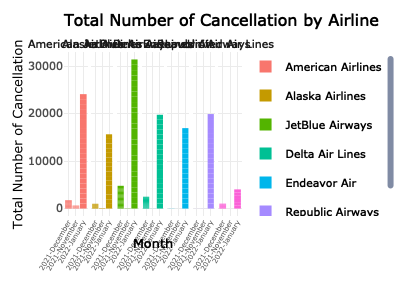
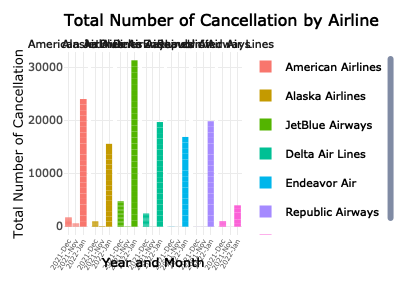
nesting by airline

diff --git a/poisson_model.md b/poisson_model.md
@@ -37,17 +37,6 @@ library(tidyverse)
 ``` r
 library(ggridges)
 library(patchwork)
-library(zoo)
-```
-
-    ## 
-    ## Attaching package: 'zoo'
-    ## 
-    ## The following objects are masked from 'package:base':
-    ## 
-    ##     as.Date, as.Date.numeric
-
-``` r
 library(plotly)
 ```
 
@@ -167,8 +156,12 @@ cancel_tidy <- cancel_tidy%>%
     case_count = as.numeric(case_count),
     airline_name = as_factor(airline_name),
     month = ifelse(month == 11, "November", 
-                        ifelse(month == 12, "December", "January"))) %>% 
-    filter(!is.na(cancel_count))  
+                        ifelse(month == 12, "December", "January")),
+    month2 = ifelse(month == "November", "Nov", 
+                        ifelse(month == "December", "Dec", "Jan")),
+    year_month = paste(year, month2, sep="-")) %>% 
+    filter(!is.na(cancel_count))  %>% 
+    select(-month2)
 ```
 
 # Poisson model
@@ -236,11 +229,11 @@ cancel_tidy %>%
 
 ``` r
 cancel_airline <- cancel_tidy  %>%
-  group_by(year, month, airline_name) %>%
+  group_by(year_month, airline_name) %>%
   mutate(Total_number_of_cancellation = sum(cancel_count)) 
 
 cancel_airline %>%
-  select(year, month, airline_name, Total_number_of_cancellation) %>%
+  select(year_month, airline_name, Total_number_of_cancellation) %>%
   distinct %>% 
   pivot_wider(
   names_from = airline_name, 
@@ -248,20 +241,19 @@ cancel_airline %>%
   head() %>% knitr::kable(digits = 2)
 ```
 
-| year | month    | American Airlines | Alaska Airlines | JetBlue Airways | Delta Air Lines | Endeavor Air | Republic Airways | United Air Lines |
-|-----:|:---------|------------------:|----------------:|----------------:|----------------:|-------------:|-----------------:|-----------------:|
-| 2021 | November |                42 |              23 |              11 |               8 |            3 |                8 |                1 |
-| 2021 | December |               174 |             143 |             252 |             226 |           10 |                5 |              171 |
-| 2022 | January  |              1047 |             977 |            1121 |            1039 |         1058 |             1047 |              672 |
+| year_month | American Airlines | Alaska Airlines | JetBlue Airways | Delta Air Lines | Endeavor Air | Republic Airways | United Air Lines |
+|:-----------|------------------:|----------------:|----------------:|----------------:|-------------:|-----------------:|-----------------:|
+| 2021-Nov   |                42 |              23 |              11 |               8 |            3 |                8 |                1 |
+| 2021-Dec   |               174 |             143 |             252 |             226 |           10 |                5 |              171 |
+| 2022-Jan   |              1047 |             977 |            1121 |            1039 |         1058 |             1047 |              672 |
 
 ``` r
 plot_cancel_airline <- cancel_airline %>%
-  mutate(year_month = paste(year, month, sep="-")) %>%
   ggplot(aes(x = year_month, y = Total_number_of_cancellation, fill = airline_name)) +
   geom_bar(stat = "identity", show.legend = FALSE) +
   labs(
     title = "Total Number of Cancellation by Airline",
-    x = "Month",
+    x = "Year and Month",
     y = "Total Number of Cancellation"
   ) +
   theme(legend.position="right", legend.title = element_blank(),
@@ -269,7 +261,60 @@ plot_cancel_airline <- cancel_airline %>%
         axis.text.x = element_text(angle = 60, hjust = 1, size = 5)) +
   facet_grid(. ~ airline_name)
 
+  
 ggplotly(plot_cancel_airline)
 ```
 
 <img src="poisson_model_files/figure-gfm/unnamed-chunk-9-1.png" width="90%" />
+
+## Nesting airline
+
+``` r
+poisson_by_airline = cancel_tidy %>%
+  nest(data = -airline_name) %>% 
+  mutate(
+    models = map(data, ~glm(cancel_count ~ temperature + humidity + windspeed + case_count, family = "poisson", data = .x)),
+    results = map(models, ~broom::tidy(.x, conf.int = T))) %>% 
+  select(airline_name, results) %>% 
+  unnest(results) %>% 
+  mutate(
+    OR = exp(estimate),
+    CI_lower = exp(conf.low),
+    CI_upper = exp(conf.high),
+    p_val = rstatix::p_format(p.value, digits = 2)
+  ) %>% 
+  select(airline_name, term, OR, CI_lower,CI_upper, p_val) 
+
+poisson_by_airline %>% 
+  filter(term != "(Intercept)" & p_val < .05) %>% 
+  knitr::kable(digits = 3, align = "llccc", col.names = c("Airline Name", "Terms", "Estimated adjusted OR", "CI lower bound", "CI upper bound", "P-value"))
+```
+
+| Airline Name      | Terms       | Estimated adjusted OR | CI lower bound | CI upper bound | P-value  |
+|:------------------|:------------|:---------------------:|:--------------:|:--------------:|:---------|
+| American Airlines | temperature |         0.885         |     0.877      |     0.892      | \<0.0001 |
+| American Airlines | humidity    |         1.069         |     1.063      |     1.074      | \<0.0001 |
+| American Airlines | windspeed   |         1.052         |     1.046      |     1.059      | \<0.0001 |
+| American Airlines | case_count  |         1.000         |     1.000      |     1.000      | \<0.0001 |
+| Alaska Airlines   | temperature |         0.896         |     0.888      |     0.904      | \<0.0001 |
+| Alaska Airlines   | humidity    |         1.047         |     1.041      |     1.053      | \<0.0001 |
+| Alaska Airlines   | windspeed   |         1.038         |     1.030      |     1.045      | \<0.0001 |
+| Alaska Airlines   | case_count  |         1.000         |     1.000      |     1.000      | 0.011    |
+| JetBlue Airways   | temperature |         0.871         |     0.864      |     0.879      | \<0.0001 |
+| JetBlue Airways   | humidity    |         1.074         |     1.069      |     1.079      | \<0.0001 |
+| JetBlue Airways   | windspeed   |         1.036         |     1.029      |     1.042      | \<0.0001 |
+| JetBlue Airways   | case_count  |         1.000         |     1.000      |     1.000      | \<0.0001 |
+| Delta Air Lines   | temperature |         0.898         |     0.889      |     0.908      | \<0.0001 |
+| Delta Air Lines   | humidity    |         1.046         |     1.041      |     1.052      | \<0.0001 |
+| Delta Air Lines   | windspeed   |         1.036         |     1.029      |     1.043      | \<0.0001 |
+| Endeavor Air      | temperature |         0.860         |     0.849      |     0.871      | \<0.0001 |
+| Endeavor Air      | humidity    |         1.086         |     1.077      |     1.095      | \<0.0001 |
+| Endeavor Air      | windspeed   |         1.013         |     1.005      |     1.021      | 0.002    |
+| Endeavor Air      | case_count  |         1.000         |     1.000      |     1.000      | \<0.0001 |
+| Republic Airways  | temperature |         0.874         |     0.865      |     0.883      | \<0.0001 |
+| Republic Airways  | humidity    |         1.063         |     1.057      |     1.070      | \<0.0001 |
+| Republic Airways  | windspeed   |         1.049         |     1.041      |     1.056      | \<0.0001 |
+| Republic Airways  | case_count  |         1.000         |     1.000      |     1.000      | \<0.0001 |
+| United Air Lines  | temperature |         0.929         |     0.915      |     0.941      | \<0.0001 |
+| United Air Lines  | humidity    |         1.028         |     1.021      |     1.034      | \<0.0001 |
+| United Air Lines  | windspeed   |         1.046         |     1.034      |     1.058      | \<0.0001 |
